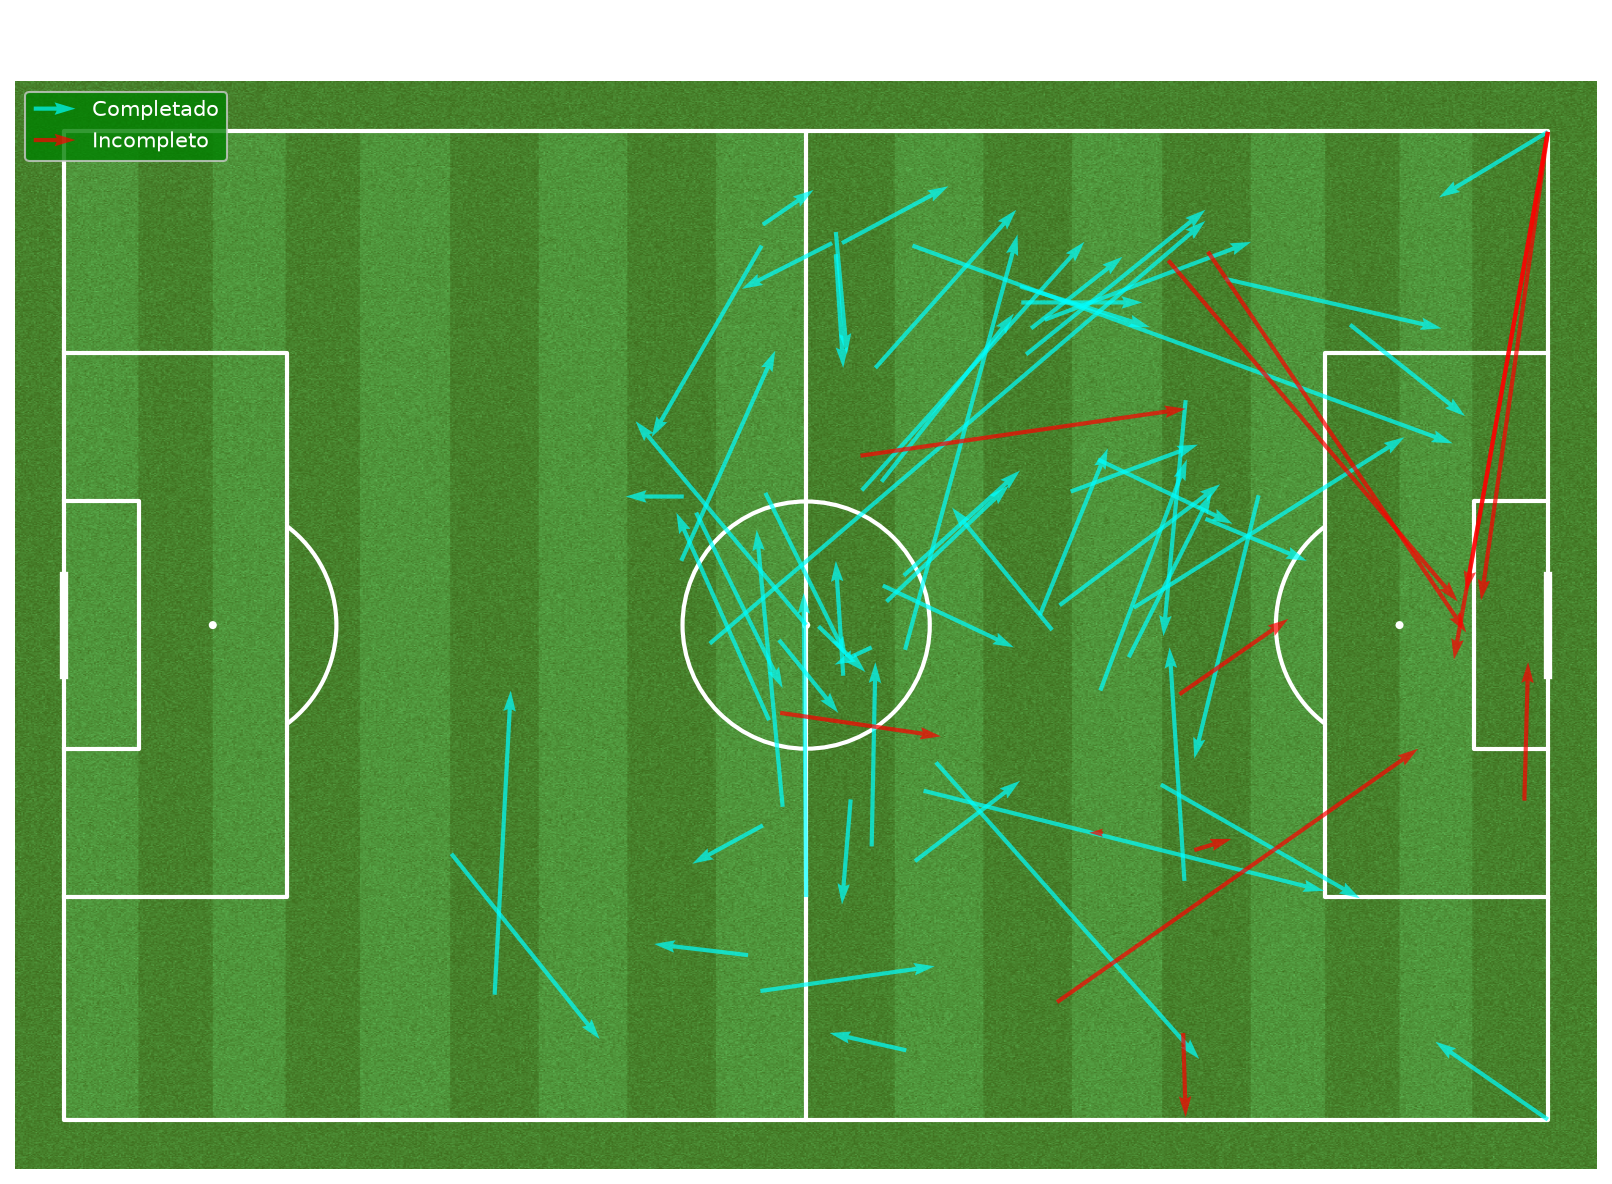
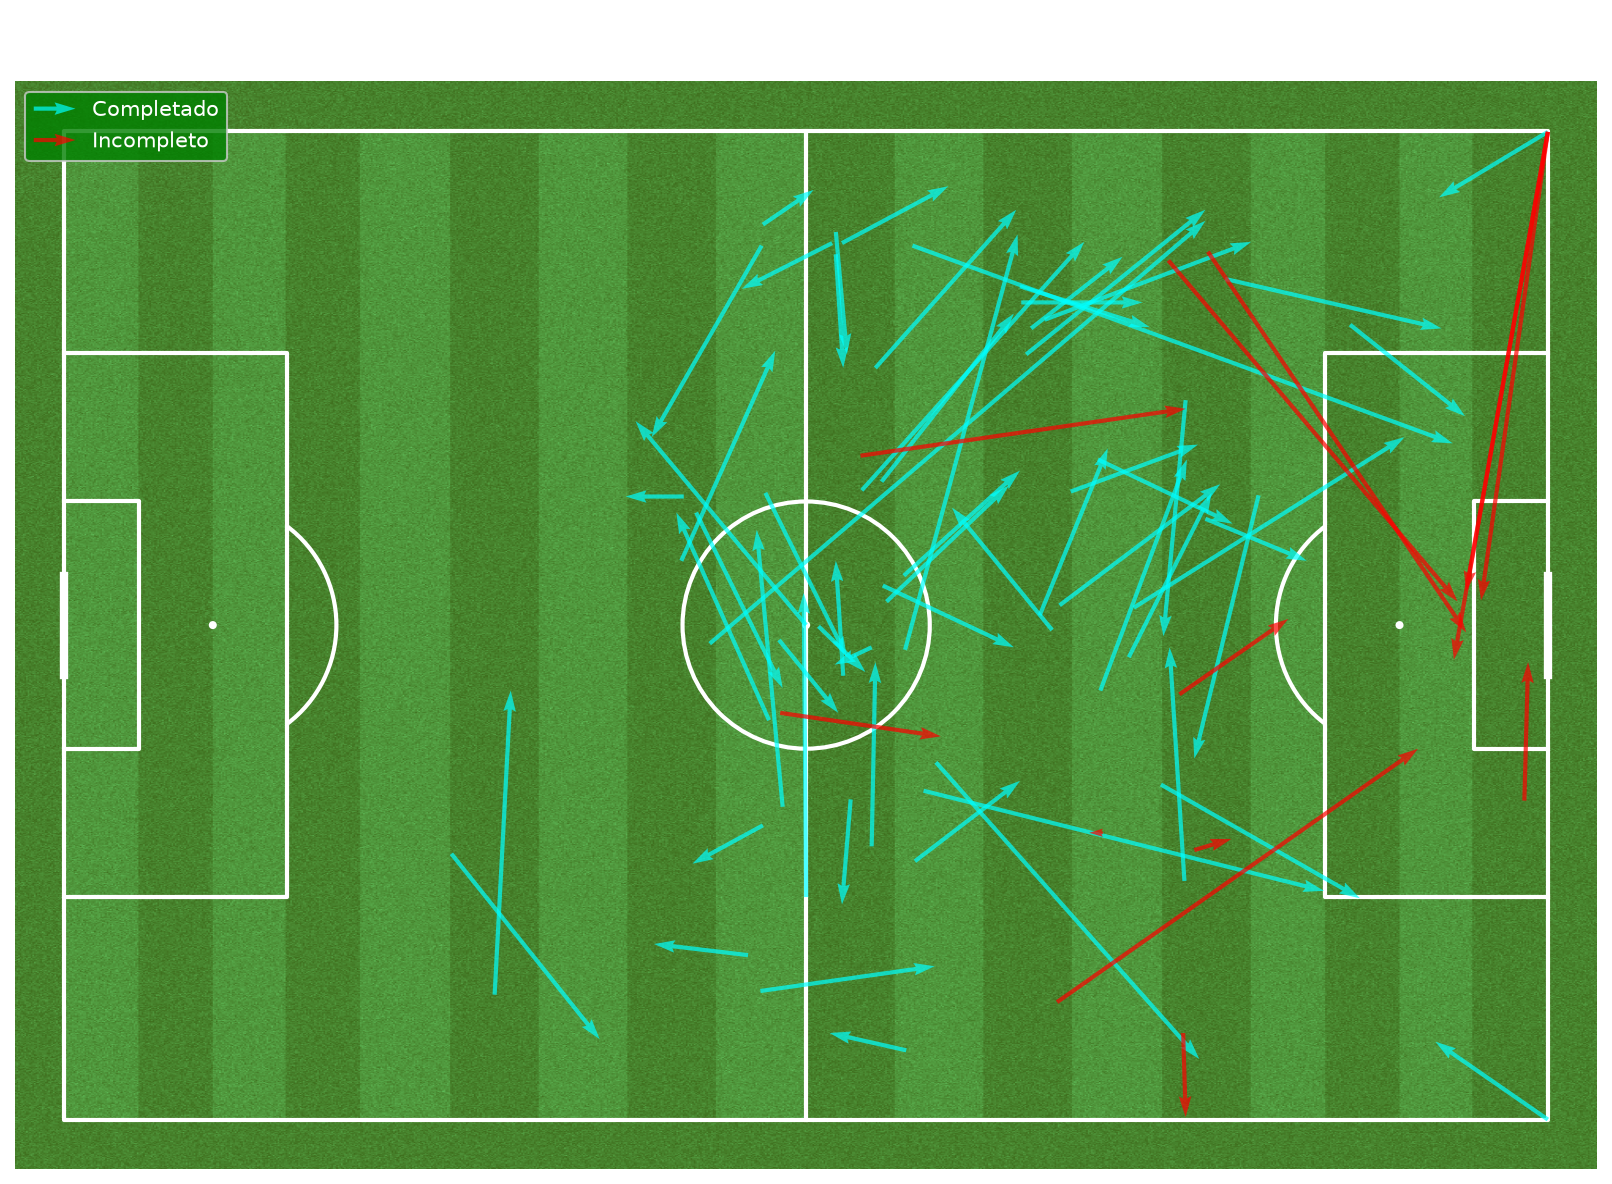
mapa de calor y readme

diff --git a/README.md b/README.md
@@ -1,0 +1,40 @@
+# Futbol Scout — Análisis de Datos Futbolísticos
+
+Proyecto de ciencia de datos aplicada al fútbol, orientado a scouting inteligente
+y análisis de rendimiento de jugadores.
+
+## Objetivo
+
+Desarrollar un sistema de evaluación de potencial de jugadores basado en métricas
+espaciales y cognitivas, yendo más allá de las estadísticas tradicionales (goles, asistencias).
+La idea es construir perfiles de jugadores élite en sus etapas formativas y comparar
+nuevos talentos contra esos perfiles.
+
+## Stack
+
+- **Python 3.12** — lenguaje principal
+- **StatsBomb Open Data** — fuente de datos gratuita con tracking espacial
+- **pandas / numpy** — procesamiento de datos
+- **mplsoccer / matplotlib** — visualizaciones de campo
+- **JupyterLab** — exploración y análisis
+
+## Estructura
+
+futbol-scout/
+├── data/
+│ ├── raw/# datos originales
+│ └── processed/# visualizaciones y resultados
+├── notebooks/
+│ └── 01_exploracion.ipynb
+├── src/# código reutilizable (próximamente)
+└── requirements.txt
+
+## Notebooks
+
+| Notebook         | Descripción                                                                                            |
+| ---------------- | ------------------------------------------------------------------------------------------------------ |
+| `01_exploracion` | Exploración inicial de StatsBomb Open Data, mapa de pases y heatmap de Messi vs Real Madrid (Oct 2020) |
+
+## Estado del proyecto
+
+🚧 Fase 1 en curso — Exploración y visualización de datos